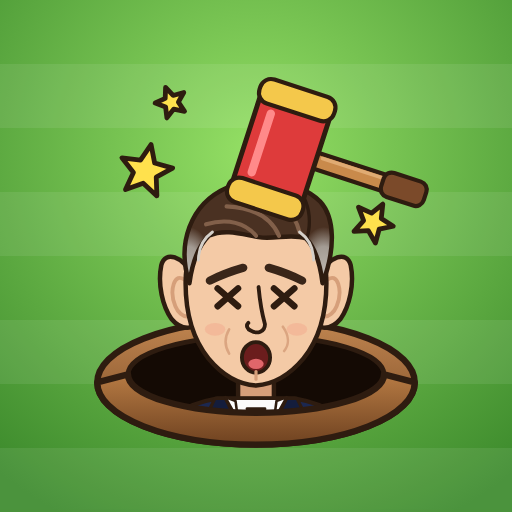
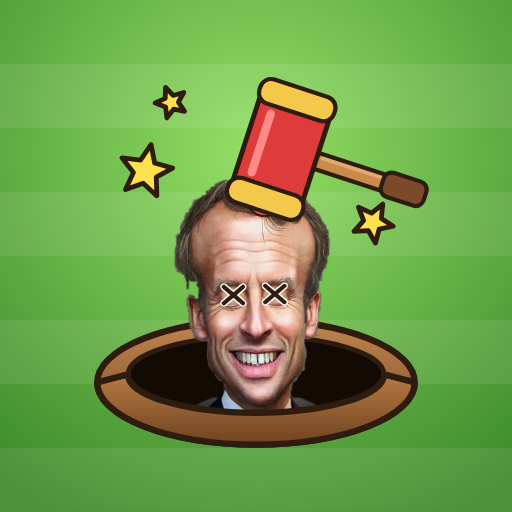
Use DonkeyHotey's caricature for Macron
Replace the hand-drawn Macron with the painted caricature supplied by
the user: cut out from its background, framed like the other
characters (img/macron.webp) plus a knocked-out version with X eyes and
a bump (img/macron-hit.webp). Characters can now come from an image
file as well as SVG. The artist is credited in the How to play screen
and the README; the source portrait and the cut-out scripts are kept in
tools/macron/. Icons regenerated, service worker cache bumped.

Claude-Session: https://claude.ai/code/session_01KyC5swbe97JkFYfGyRhXkp

Changed region(s): [[0.2812, 0.3438, 0.7188, 0.8125]]

diff --git a/js/art.js b/js/art.js
@@ -1,5 +1,7 @@
-// Cartoon caricatures drawn as inline SVG strings.
-// Every character uses the same 200 x 240 canvas: the head sits in the upper
+// Character artwork.
+// Most characters are cartoon caricatures drawn as inline SVG strings; Macron
+// uses a painted caricature (img/, see IMAGE_CHARACTERS).
+// Every character uses the same 200 x 240 frame: the head sits in the upper
 // part and the shoulders at the bottom are what disappears into the hole.
 // Expressions: 'idle', 'hit' and (Modi only) 'hurt'.
 
@@ -65,73 +67,12 @@ function suit(suitCol, lapel, tie, pin = '') {
   ${pin}`;
 }
 
-const flagFR = (x, y) => `<g transform="translate(${x} ${y})">
-  <rect width="5" height="9" fill="#1f4fbf"/><rect x="5" width="5" height="9" fill="#fff"/><rect x="10" width="5" height="9" fill="#e8343d"/>
-  <rect width="15" height="9" fill="none" stroke="${OL}" stroke-width="1.2"/></g>`;
-
 const flagUS = (x, y) => `<g transform="translate(${x} ${y})">
   <rect width="16" height="10" fill="#fff"/>
   <rect y="0" width="16" height="1.6" fill="#d22f3c"/><rect y="3.2" width="16" height="1.6" fill="#d22f3c"/>
   <rect y="6.4" width="16" height="1.6" fill="#d22f3c"/><rect y="8.6" width="16" height="1.4" fill="#d22f3c"/>
   <rect width="7" height="5.4" fill="#27407f"/>
   <rect width="16" height="10" fill="none" stroke="${OL}" stroke-width="1.2"/></g>`;
-
-/* ---------- Macron ---------- */
-
-function macron(expr) {
-  const skin = '#f4caa6', shade = '#d69f7a', hair = '#4a3122', hairHi = '#82604a', brow = '#3a2619';
-  const hit = expr === 'hit';
-  // Long face with a narrow, V-shaped jaw.
-  const face = 'M100 31 C134 31 155 54 155 90 C155 116 149 134 137 149 C127 161 114 169 100 170 C86 169 73 161 63 149 C51 134 45 116 45 90 C45 54 66 31 100 31 Z';
-  // Big, protruding ears.
-  const earL = 'M50 84 C43 69 29 64 26 76 C23 91 27 108 34 118 C39 124 45 126 51 124 Z';
-  const earR = 'M150 84 C157 69 171 64 174 76 C177 91 173 108 166 118 C161 124 155 126 149 124 Z';
-  // Thick, straight eyebrows that drop at the outer end.
-  const browL = 'M58 87 C66 78 80 75 94 78 C95 81 95 84 94 86 C82 84 71 86 61 92 C58 91 57 89 58 87 Z';
-  const browR = 'M142 87 C134 78 120 75 106 78 C105 81 105 84 106 86 C118 84 129 86 139 92 C142 91 143 89 142 87 Z';
-  // Voluminous hair swept back, parted on the side, grey at the temples.
-  const hairPath = 'M48 90 C38 60 48 28 78 15 C101 6 132 9 150 26 C162 39 162 64 152 90 C150 74 146 62 139 55 C128 51 114 56 102 54 C90 52 76 47 63 53 C55 61 50 75 48 90 Z';
-  const eye = (cx, dir) => `
-    <ellipse cx="${cx}" cy="101" rx="12" ry="8.6" fill="#fff" stroke="${OL}" stroke-width="2.2"/>
-    <circle cx="${cx + dir}" cy="101.8" r="6.6" fill="#2b8af0" stroke="#164a95" stroke-width="1.4"/>
-    <circle cx="${cx + dir}" cy="101.8" r="2.9" fill="#0d0d0d"/>
-    <circle cx="${cx + dir + 2.4}" cy="99.2" r="2" fill="#fff"/>
-    <path d="M${cx - 13} 99.5 C${cx - 8} 91 ${cx + 8} 91 ${cx + 13} 98.5" fill="none" stroke="${OL}" stroke-width="3.8" stroke-linecap="round"/>
-    <path d="M${cx - 7} 111.5 Q${cx} 113.5 ${cx + 7} 111.5" fill="none" stroke="${shade}" stroke-width="1.5" stroke-linecap="round" opacity="0.8"/>`;
-  return svg(`
-    <defs>
-      <clipPath id="mhc"><path d="${hairPath}"/></clipPath>
-      <radialGradient id="mgrey">
-        <stop offset="0" stop-color="#b9b3ac"/><stop offset="0.55" stop-color="#a39b93"/><stop offset="1" stop-color="#a39b93" stop-opacity="0"/>
-      </radialGradient>
-    </defs>
-    <path d="M86 146 L86 188 L114 188 L114 146 Z" fill="${shade}" stroke="${OL}" stroke-width="${SW}"/>
-    ${suit('#1c2850', '#141d3c', '#1f2f63', flagFR(126, 200))}
-    <path d="${earL}" fill="${skin}" stroke="${OL}" stroke-width="${SW}" stroke-linejoin="round"/>
-    <path d="${earR}" fill="${skin}" stroke="${OL}" stroke-width="${SW}" stroke-linejoin="round"/>
-    <path d="M45 88 C36 80 32 96 37 108 C39 113 43 116 46 116 M155 88 C164 80 168 96 163 108 C161 113 157 116 154 116" fill="none" stroke="${shade}" stroke-width="3" stroke-linecap="round"/>
-    <path d="${face}" fill="${skin}" stroke="${OL}" stroke-width="${SW}"/>
-    <g clip-path="url(#mhc)">
-      <rect x="30" y="0" width="140" height="100" fill="${hair}"/>
-      <ellipse cx="47" cy="80" rx="20" ry="34" fill="url(#mgrey)"/>
-      <ellipse cx="153" cy="80" rx="20" ry="34" fill="url(#mgrey)"/>
-    </g>
-    <path d="${hairPath}" fill="none" stroke="${OL}" stroke-width="${SW}" stroke-linejoin="round"/>
-    <path d="M137 22 C142 32 143 43 140 54" fill="none" stroke="#2c1b10" stroke-width="2.6" stroke-linecap="round"/>
-    <path d="M134 50 C130 34 118 24 98 22 M118 53 C112 39 98 31 77 30 M100 53 C92 43 78 39 61 44" fill="none" stroke="${hairHi}" stroke-width="3.2" stroke-linecap="round"/>
-    <path d="M55 72 C55 62 59 55 66 50 M145 72 C145 62 141 55 134 50" fill="none" stroke="#d4cfc9" stroke-width="2.2" stroke-linecap="round"/>
-    ${hit ? browsWorried(brow, 84, 6.5) : `<path d="${browL}" fill="${brow}"/><path d="${browR}" fill="${brow}"/>`}
-    ${hit ? eyesHit(101) : eye(78, 1) + eye(122, -1)}
-    <path d="M102 93 C103 104 105 115 107 122 C107 128 101 130 96 127 C93 126 92 123 94 121" fill="none" stroke="${OL}" stroke-width="3" stroke-linecap="round" stroke-linejoin="round"/>
-    <path d="M79 126 C75 133 76 140 79 145 M121 124 C126 131 126 138 122 143" fill="none" stroke="${shade}" stroke-width="2" stroke-linecap="round" opacity="0.85"/>
-    ${hit ? mouthHit(148) : `
-      <path d="M80 142 C89 148 111 148 121 139" fill="none" stroke="${OL}" stroke-width="3.4" stroke-linecap="round"/>
-      <path d="M80 142 L76.5 140 M121 139 L124 135" stroke="${OL}" stroke-width="2.8" stroke-linecap="round"/>
-      <path d="M92 152 Q101 155 110 151" fill="none" stroke="${shade}" stroke-width="2.2" stroke-linecap="round"/>`}
-    <path d="M100 159 L100 165" stroke="${shade}" stroke-width="2.5" stroke-linecap="round"/>
-    ${cheeks(0.2)}
-  `);
-}
 
 /* ---------- Obama ---------- */
 
@@ -308,10 +249,24 @@ export const hammerSVG = svg(`
   <rect x="12" y="78" width="56" height="18" rx="8" fill="#f4c84b" stroke="${OL}" stroke-width="3"/>
 `, 152, 100);
 
-const BUILDERS = { macron, obama, modi, tamim, taxpayer };
+const BUILDERS = { obama, modi, tamim, taxpayer };
+
+// Characters drawn from a picture instead of SVG (400 x 480 WebP, same frame).
+// Macron: caricature by DonkeyHotey (2018), Creative Commons, cut out and
+// given "knocked out" eyes for the hit version (see tools/macron/).
+export const IMAGE_CHARACTERS = {
+  macron: { idle: 'img/macron.webp', hit: 'img/macron-hit.webp' },
+};
 
 export function characterSVG(id, expr = 'idle') {
   return BUILDERS[id](expr);
+}
+
+/** URL of a character's picture: an image file or an SVG data URL. */
+export function characterSrc(id, expr = 'idle') {
+  const img = IMAGE_CHARACTERS[id];
+  if (img) return img[expr] || img.idle;
+  return svgToDataURL(characterSVG(id, expr));
 }
 
 export const svgToDataURL = (s) =>

diff --git a/js/main.js b/js/main.js
@@ -2,7 +2,7 @@
 
 import { Game, GAME_DURATION } from './game.js';
 import { CHARACTERS, LEADERS, ALL_TYPES } from './characters.js';
-import { characterSVG, svgToDataURL } from './art.js';
+import { characterSrc } from './art.js';
 import { unlockAudio, sfx, isMuted, setMuted } from './audio.js';
 import * as LB from './leaderboard.js';
 
@@ -45,13 +45,13 @@ $$('[data-go]').forEach((b) => b.addEventListener('click', () => {
 /* ---------- artwork in the DOM ---------- */
 
 const faceURL = {};
-for (const id of ALL_TYPES) faceURL[id] = svgToDataURL(characterSVG(id, 'idle'));
+for (const id of ALL_TYPES) faceURL[id] = characterSrc(id, 'idle');
 
 $('#lineup').innerHTML = LEADERS.map((id, i) =>
-  `<div class="peek" style="--i:${i}"><div class="clip"><img src="${faceURL[id]}" alt="" draggable="false"></div></div>`).join('');
+  `<div class="peek peek-${id}" style="--i:${i}"><div class="clip"><img src="${faceURL[id]}" alt="" draggable="false"></div></div>`).join('');
 
 const avatar = (id, alt = '') =>
-  `<span class="avatar"><img src="${faceURL[id]}" alt="${alt}" draggable="false"></span>`;
+  `<span class="avatar avatar-${id}"><img src="${faceURL[id]}" alt="${alt}" draggable="false"></span>`;
 
 $('#cast').innerHTML = ALL_TYPES.map((id) => {
   const c = CHARACTERS[id];

diff --git a/js/game.js b/js/game.js
@@ -1,7 +1,7 @@
 // Smash Them Down: the playfield (canvas) and game rules.
 
 import { CHARACTERS, ALL_TYPES, pick } from './characters.js';
-import { characterSVG, pawSVG, hammerSVG, HAMMER, svgToDataURL, loadImage } from './art.js';
+import { characterSrc, IMAGE_CHARACTERS, pawSVG, hammerSVG, HAMMER, svgToDataURL, loadImage } from './art.js';
 import { sfx, vibrate } from './audio.js';
 
 export const GAME_DURATION = 60; // seconds
@@ -36,8 +36,9 @@ export function loadArt() {
     const jobs = [];
     for (const id of ALL_TYPES) {
       imgs[id] = {};
-      for (const e of ['idle', 'hit', ...(id === 'modi' ? ['hurt'] : [])]) {
-        jobs.push(loadImage(svgToDataURL(characterSVG(id, e))).then((img) => { imgs[id][e] = img; }));
+      const exprs = IMAGE_CHARACTERS[id] ? Object.keys(IMAGE_CHARACTERS[id]) : ['idle', 'hit', ...(id === 'modi' ? ['hurt'] : [])];
+      for (const e of exprs) {
+        jobs.push(loadImage(characterSrc(id, e)).then((img) => { imgs[id][e] = img; }));
       }
     }
     jobs.push(loadImage(svgToDataURL(pawSVG)).then((i) => { imgs.paw = i; }));

diff --git a/index.html b/index.html
@@ -53,7 +53,7 @@
 
       <footer class="menu-foot">
         <button class="icon-btn sound-btn" type="button" aria-label="Toggle sound"></button>
-        <p class="disclaimer">A work of satire. Cartoon caricatures only.<br>No politicians were harmed in the making of this game.</p>
+        <p class="disclaimer">A work of satire. Caricatures only.<br>No politicians were harmed in the making of this game.</p>
       </footer>
     </section>
 
@@ -65,6 +65,7 @@
           <p class="lead">Tap the leaders popping out of their holes. You have <b>60&nbsp;seconds</b>.</p>
           <ul class="cast" id="cast"></ul>
           <p class="tip"><b>Combo:</b> every 5 hits in a row raises your multiplier, up to <b>x5</b>. A miss, or a leader who gets away, resets it.</p>
+          <p class="credits">Macron caricature by DonkeyHotey (2018), Creative Commons licence.</p>
         </div>
         <button class="btn btn-play" type="button" data-go="menu">GOT IT!</button>
       </div>

diff --git a/sw.js b/sw.js
@@ -1,6 +1,6 @@
 // Service worker: makes the game load instantly and work offline.
 // Bump VERSION whenever a file of the game changes, so players get the update.
-const VERSION = 'smash-v2';
+const VERSION = 'smash-v3';
 const ASSETS = [
   './',
   './index.html',
@@ -13,6 +13,8 @@ const ASSETS = [
   './js/characters.js',
   './js/audio.js',
   './js/leaderboard.js',
+  './img/macron.webp',
+  './img/macron-hit.webp',
   './fonts/LilitaOne-Regular-latin.woff2',
   './fonts/Nunito-latin.woff2',
   './icons/icon-192.png',

diff --git a/style.css b/style.css
@@ -317,6 +317,7 @@ button { font: inherit; color: inherit; cursor: pointer; }
 .panel p { margin: 8px 0; }
 .lead { font-size: 16px; }
 .tip { font-size: 14px; line-height: 1.4; margin: 12px 0 4px !important; }
+.credits { font-size: 11px; font-weight: 700; color: #8a6f5c; margin: 10px 0 2px !important; }
 
 .cast {
   list-style: none;

diff --git a/tools/macron/cutout.py b/tools/macron/cutout.py
@@ -1,0 +1,67 @@
+import sys, numpy as np
+from collections import deque
+from PIL import Image, ImageFilter
+src, out = sys.argv[1], sys.argv[2]
+im = Image.open(src).convert('RGB')
+a = np.asarray(im).astype(np.float32)
+H, W, _ = a.shape
+ys, xs = np.mgrid[0:H, 0:W]
+# background samples: left/right/top borders above the shoulders
+samp = np.zeros((H, W), bool)
+samp[:420, :6] = True; samp[:420, -6:] = True; samp[:4, :] = True
+# exclude non-grey pixels from samples (hair touching the border)
+sat = a.max(2) - a.min(2)
+samp &= sat < 18
+X = np.stack([np.ones(H*W), xs.ravel()/W, ys.ravel()/H, (xs.ravel()/W)**2, (ys.ravel()/H)**2, (xs.ravel()*ys.ravel())/(W*H)], 1)
+m = samp.ravel()
+pred = np.zeros_like(a)
+for c in range(3):
+    coef, *_ = np.linalg.lstsq(X[m], a[..., c].ravel()[m], rcond=None)
+    pred[..., c] = (X @ coef).reshape(H, W)
+diff = np.sqrt(((a - pred) ** 2).sum(2))
+bglike = sat <= (int(sys.argv[3]) if len(sys.argv) > 3 else 8)
+# flood fill from borders through bg-like pixels
+bg = np.zeros((H, W), bool)
+q = deque()
+for y in range(H):
+    for x in (0, W - 1):
+        if bglike[y, x]: bg[y, x] = True; q.append((y, x))
+for x in range(W):
+    if bglike[0, x]: bg[0, x] = True; q.append((0, x))
+while q:
+    y, x = q.popleft()
+    for dy, dx in ((1,0),(-1,0),(0,1),(0,-1)):
+        ny, nx = y+dy, x+dx
+        if 0 <= ny < H and 0 <= nx < W and not bg[ny, nx] and bglike[ny, nx]:
+            bg[ny, nx] = True; q.append((ny, nx))
+fg = ~bg
+cx, cy, rx, ry = 189, 700, 260, 290
+shoulders = ((xs - cx) / rx) ** 2 + ((ys - cy) / ry) ** 2 <= 1
+fg = (fg & (ys < 440)) | (shoulders & (ys >= 425))
+fg[380:, :32] = False  # artist's signature (credited in the game and README instead)
+# keep the largest connected foreground component
+lab = np.zeros((H, W), np.int32); cur = 0; sizes = {}
+for y0 in range(H):
+    for x0 in range(W):
+        if fg[y0, x0] and not lab[y0, x0]:
+            cur += 1; lab[y0, x0] = cur; q.append((y0, x0)); n = 0
+            while q:
+                y, x = q.popleft(); n += 1
+                for dy, dx in ((1,0),(-1,0),(0,1),(0,-1)):
+                    ny, nx = y+dy, x+dx
+                    if 0 <= ny < H and 0 <= nx < W and fg[ny, nx] and not lab[ny, nx]:
+                        lab[ny, nx] = cur; q.append((ny, nx))
+            sizes[cur] = n
+big = max(sizes, key=sizes.get)
+fg = lab == big
+mask = Image.fromarray((fg * 255).astype(np.uint8))
+mask = mask.filter(ImageFilter.MinFilter(3)).filter(ImageFilter.MaxFilter(3))  # remove specks
+mask = mask.filter(ImageFilter.GaussianBlur(0.9))
+np.save(out + '.npy', np.asarray(mask))
+rgba = im.copy(); rgba.putalpha(mask)
+rgba.save(out)
+# preview on green
+prev = Image.new('RGB', (W*2+10, H), (95, 181, 68))
+prev.paste(im, (0, 0)); prev.paste(rgba, (W+10, 0), rgba)
+prev.save(out.replace('.png', '-preview.png'))
+print('done', W, H, 'fg ratio', fg.mean())

diff --git a/README.md b/README.md
@@ -8,7 +8,7 @@ Jeu satirique de « tape-taupe » pour mobile : **Macron, Obama, Modi et Cheikh 
 - ✈ Fonctionne hors connexion une fois ouvert (les scores sont envoyés au retour du réseau).
 - 🇬🇧 Le jeu est entièrement en anglais.
 
-> Œuvre satirique : caricatures dessinées en SVG, aucune vraie photo.
+> Œuvre satirique : uniquement des caricatures. Obama, Modi, Tamim et la taupe sont dessinés en SVG ; Macron utilise une caricature peinte de DonkeyHotey (voir *Crédits*).
 
 ## Règles
 
@@ -78,7 +78,8 @@ style.css             styles
 js/config.js          ← URL Firebase à renseigner
 js/main.js            écrans, classement, installation
 js/game.js            moteur du jeu (canvas)
-js/art.js             caricatures en SVG
+js/art.js             caricatures en SVG (+ images de img/)
+img/                  Macron (normal et « assommé »), au format WebP
 js/characters.js      personnages, points, répliques
 js/audio.js           sons synthétisés (Web Audio, aucun fichier)
 js/leaderboard.js     Top 10 partagé (Firebase REST) + secours local/hors ligne
@@ -86,7 +87,13 @@ sw.js                 service worker (hors ligne, chargement rapide)
 manifest.webmanifest  manifeste PWA (icône, plein écran, portrait)
 firebase-rules.json   règles de sécurité de la base
 icons/                icônes (générées par tools/make-icons.mjs)
+tools/macron/         portrait d'origine + scripts de détourage (cutout.py, sprite.mjs)
 fonts/                polices Lilita One et Nunito (licence SIL OFL)
 ```
 
 Pour tester en local : `python3 -m http.server 8000` puis ouvrir <http://localhost:8000>.
+
+## Crédits
+
+- **Caricature d'Emmanuel Macron** : [DonkeyHotey](https://www.flickr.com/photos/donkeyhotey/) (2018), publiée sous licence Creative Commons sur Flickr. Elle est utilisée détourée, et la version « assommée » ajoute des yeux en croix et une bosse. La signature de l'artiste a été retirée de l'image du jeu, d'où la mention dans le jeu (écran *How to play*) et ici. Pense à vérifier sur la page Flickr d'origine la licence exacte (CC BY ou CC BY-SA) et à compléter la mention si besoin.
+- **Polices** : Lilita One et Nunito, licence SIL Open Font License (voir `fonts/OFL.txt`).
